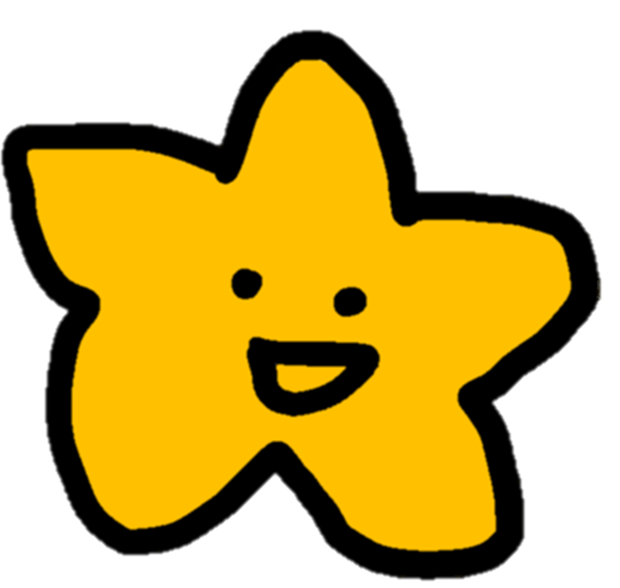
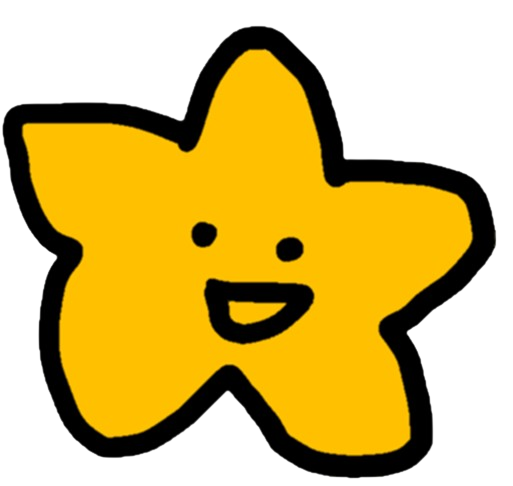
게임 그림파일 배경제거 + 로그인 수정

diff --git a/src/page/Login.vue b/src/page/Login.vue
@@ -11,14 +11,14 @@
     <tr>
       <td class="green00" style="width: 90%;">아이디</td>
       <td class="table1">
-        &nbsp;
-        <input type="text" v-model="id" :disabled="id_check" class="textbox" />
+ 
+        <input type="text" v-model="id"  class="textbox" />
       </td>
     </tr>
     <tr>
       <td class="green00">비밀번호</td>
       <td class="table1">
-        &nbsp; <input type="password" v-model="pw" class="textbox" />
+       <input type="password" v-model="pw" class="textbox" />
       </td>
     </tr>
     <tr>
